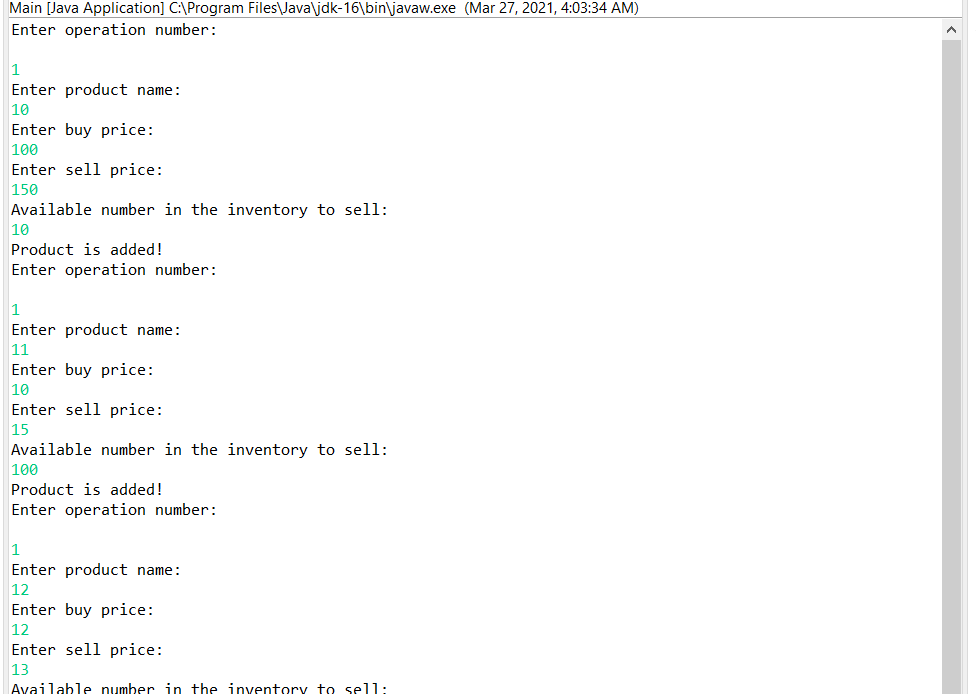
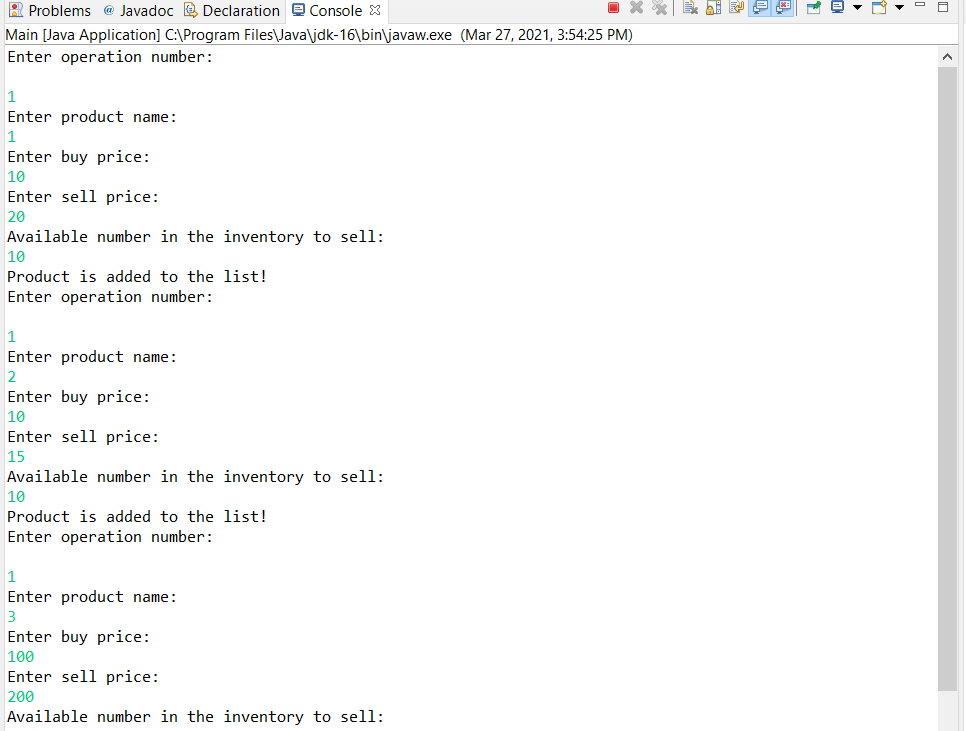
admin

Changed region(s): [[0.0, 0.0, 1.0, 1.0], [0.0, 0.7867, 0.4037, 1.0]]

diff --git a/test/ProductList.java b/test/ProductList.java
@@ -4,8 +4,9 @@ import java.util.HashMap;
 import java.util.ArrayList;
 
 public class ProductList {
-	private ArrayList < Product > products = new ArrayList < Product > (); // Arraylist to contain products with information
+	///private ArrayList < Product > products = new ArrayList < Product > (); // Arraylist to contain products with information
 	
+	private HashMap <Integer, Product> products = new HashMap <Integer, Product > ();
 	ProductList() {
 		products.clear();
 	}
@@ -14,33 +15,23 @@ public class ProductList {
 		/// Adds new product to the product list
 		
 		Product newProduct = new Product(name, buy, sell, availableNumber);
-		products.add(newProduct);
+		//products.add(newProduct);
+		products.put(name, newProduct); /// name is the key
+		
+		System.out.println("Product is added to the list!");
 	}
 	
-	/*public void updateProduct(String name, int number) {
-		/// Updates the available number for sell from the inventory
-		
-		for(int i = 0 ; i < products.size(); ++i) {
-			Product p = products.get(i);
-			if(p.getProductName().equals(name)) {
-				p.addProduct(number);
-				products.set(i, p);
-				break;
-			}
-		}
-	}
-	*/
+
 	
 	public boolean searchProduct(int name) {
 		/// check if a product already exists or not
 		
-		for(int i = 0 ; i < products.size(); ++i) {
-			Product p = products.get(i);
-			if(p.getProductName() == name) {
-				return true;
-			}
+		if(products.containsKey(name)) {
+			return true;
 		}
-		return false;
+		else {
+			return false;
+		}
 	} 
 	
 	public void deleteProduct(int name) {
@@ -49,76 +40,63 @@ public class ProductList {
 			System.out.println("Product list is already empty! Can't delete the product!");
 			return;
 		}
-		int index = -1;
-		for(int i = 0 ; i < products.size(); i++) {
-			Product p = products.get(i);
-			if(p.getProductName() == name) {
-				index = i;
-				break;
-			}
-		}
-		if(index != -1) {
-			products.remove(index); /// remote that specific product
+		if(products.containsKey(name)) {
+			products.remove(name); // removes the product
 			System.out.println("Product " + name + " is deleted!");
 		}
 		else {
-			System.out.println("Product is not in the list!");
+			System.out.println("Product is not in the list! Can't delete!");
 		}
 	}
 	
 	
 	public void buyProduct(int name, int count) {
 		/// when a product is bought, the amount is added to the inventory
-		for(int i = 0 ; i < products.size() ; ++i) {
-			Product p = products.get(i);
-			if(p.getProductName() == name) {
-				p.addProduct(count); /// adding instances to the existing product
-				products.set(i, p); /// updating the product list
-				
-				int price = count * p.getBuyPrice(); // cost of the item 
-				Balance.reduceBalance(price);// that cost is subtracted from the total balance
-				System.out.println("Product is bought and added to the list!");
-				break;
-			}
-		}
+		
+		Product p = products.get(name); // accessing the copy of that product
+		p.addProduct(count); /// operating on that copy
+		products.remove(name); /// remove and update the list
+		products.put(name, p);
+		int price = count * p.getBuyPrice(); // cost of the item 
+		Balance.reduceBalance(price);// that cost is subtracted from the total balance
+		System.out.println("Product is bought and added to the list!");
+		
 	}
 	
 	public void sellProduct(int name, int count) {
-		for(int i = 0 ; i < products.size() ; ++i) {
-			Product p = products.get(i);
-			if(p.getProductName() == name) { /// searching for that product
-				if(count > p.piecesAvailable()) { 
-					/// if there is not enough product to sell.. the we can't sell
-					System.out.println("Not enough item to sell!\n");
-					break;
-				}
-				int profit = (p.getSellPrice() - p.getBuyPrice()) * count; /// total profit
-				p.sellProduct(count); // reducing the available number of products
-				p.updateProfit(profit); /// updating profit value of that product
-				Balance.addBalance(p.getSellPrice() * count); /// adding the selling price to the balance
-				products.set(i, p); // updating product list
-				System.out.println("Product is sold!");
-				break;
-			}
+		
+		Product p = products.get(name); /// taking a copy of that object
+		if(count > p.getPiecesAvailable()) { 
+			/// if there is not enough product to sell.. the we can't sell
+			System.out.println("Not enough item to sell!\n");
+			return;
 		}
+		int profit = (p.getSellPrice() - p.getBuyPrice()) * count; /// total profit
+		p.sellProduct(count); // reducing the available number of products
+		p.updateProfit(profit); /// updating profit value of that product
+		Balance.addBalance(p.getSellPrice() * count); /// adding the selling price to the balance
+		
+		products.remove(name); /// updating the products map
+		products.put(name, p);
+		
+		System.out.println("Product is sold!");
+		
 	}
 	
 	
 	
 	public void showProductList() {
 		/// Function to print the entire product list
-		
-		for(int i = 0 ; i < products.size() ; ++i) {
-			Product product = products.get(i);
-			HashMap < String,String > values = product.productInfo(); /// get product information
-			System.out.println("Product number: " + (i + 1));
-			System.out.println("Product Name: " + values.get("Name"));
-			System.out.println("Buy Price: " + values.get("Buy"));
-			System.out.println("Sell Price: " + values.get("Sell"));
-			System.out.println("Available number in the inventory: " + values.get("Count"));
-			System.out.println("Profit form " + values.get("Name") + ": " + values.get("Profit"));
+		for(int i : products.keySet()) {
+			Product p = products.get(i);
+			System.out.println("Product name: " + p.getProductName());
+			System.out.println("Buying price: " + p.getBuyPrice());
+			System.out.println("Selling price: " + p.getSellPrice());
+			System.out.println("Available number in the inventory to sell : " + p.getPiecesAvailable());
+			System.out.println("Total profit from that product: " + p.getProfit());
 			System.out.println("");
 		}
+		
 		
 	}
 	

diff --git a/test/Product.java b/test/Product.java
@@ -16,12 +16,6 @@ public class Product {
 	}
 	
 	
-	public void setProfit(int value) {
-		/// updates profit when we sell an item
-		
-		profit += value;
-	}
-	
 	public int getBuyPrice() {
 		/// Returns the Buying price of a product
 		return buyPrice;
@@ -32,16 +26,29 @@ public class Product {
 		return sellPrice;
 	}
 	
+	public int getPiecesAvailable() {
+		/// returns the number of pieces available in the inventory
+		return availablePieces;
+	}
+	
+	public int getProductName() {
+		/// returns the name of the product
+		return name;
+	}
+	
+	public int getProfit() {
+		return profit;
+	}
+	
+	
+	/// Change functions
+	
 	public void updateProfit(int value) {
 		/// add the profit what we get from selling to the profit variable
 		profit += value;
 	}
 	
-	public int piecesAvailable() {
-		/// returns the number of pieces available in the inventory
-		return availablePieces;
-	}
-	
+
 	public void addProduct(int count) {
 		/// adds count if existing product is added
 		availablePieces += count;
@@ -52,21 +59,6 @@ public class Product {
 		availablePieces -= count;
 	}
 	
-	public int getProductName() {
-		/// returns the name of the product
-		return name;
-	}
+
 	
-	
-	public HashMap < String, String > productInfo() {
-		/// A getter method used to return the whole product information
-	
-		HashMap<String, String> product = new HashMap<String, String>();
-		product.put("Name", name + "");
-		product.put("Buy", buyPrice + "");
-		product.put("Sell", sellPrice + "");
-		product.put("Count", availablePieces + "");
-		product.put("Profit", profit + "");
-		return product;
-	}
 }

diff --git a/test/Shop.java b/test/Shop.java
@@ -7,7 +7,8 @@ public class Shop {
 	public void start() {
 		// start function contains the conditions to run the program
 		Scanner sc = new Scanner(System.in);
-		ProductList list = new ProductList();
+		ProductList list = new ProductList(); 
+		
 		
 		while(true) {
 			System.out.println("Enter operation number:\n");
@@ -28,8 +29,7 @@ public class Shop {
 				
 				list.addProduct(name, buy, sell, count);
 				
-				System.out.println("Product is added!");
-				
+	
 			}
 			else if(choice == 2) {
 				// Delete a Product
@@ -68,7 +68,7 @@ public class Shop {
 			else if(choice == 6) {
 				/// check available balance
 				
-				System.out.println("Total balance: " + Balance.getBalance());
+				System.out.println("Total balance: " + Balance.balance);
 			}
 			else {
 				// terminate the program
